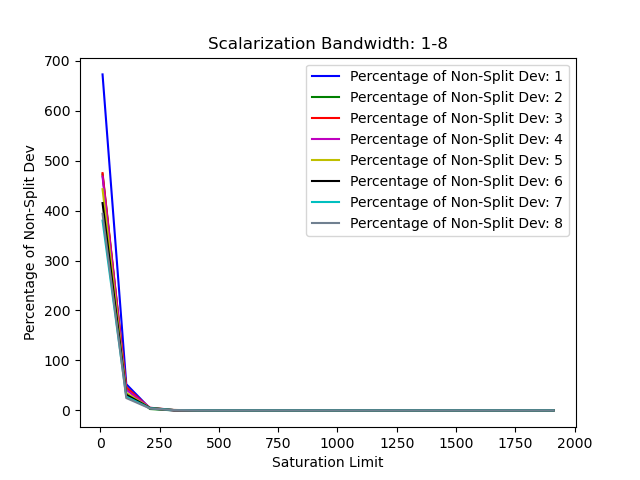
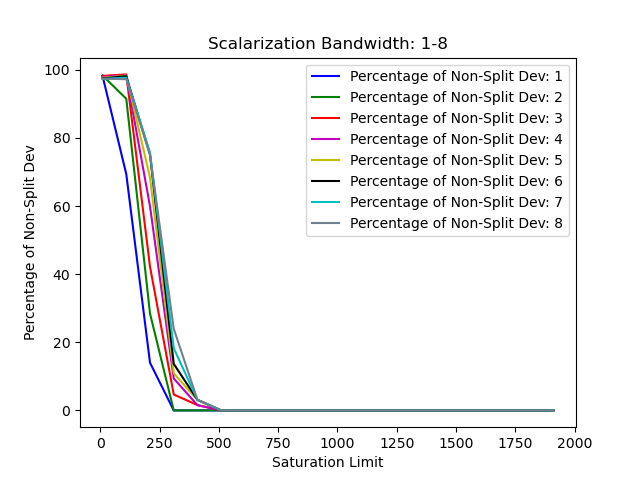
pct_non_split_dev graph now correct --> all parts of heuristic sim fully correct now

diff --git a/heuristic_sim.py b/heuristic_sim.py
@@ -217,7 +217,7 @@ def sat_counters(tmasks, instrs, scalarize_t0, scalarize_pcs, theta=1000, num_th
 								if current_instr_pc in pcs:
 									reconvergence_pc = start_end[1]	# reconvergence pc
 									should_scalarize = True
-									attempts_at_scalarization += 1
+									# attempts_at_scalarization += 1
 									reconverge_pcs[tid] = reconvergence_pc
 									break
 
@@ -239,6 +239,7 @@ def sat_counters(tmasks, instrs, scalarize_t0, scalarize_pcs, theta=1000, num_th
 							sat_counters[tid] = 0
 
 							occupancy += 1
+							attempts_at_scalarization += 1
 
 							if(occupancy > max_occupancy):
 								max_occupancy = occupancy
@@ -252,6 +253,7 @@ def sat_counters(tmasks, instrs, scalarize_t0, scalarize_pcs, theta=1000, num_th
 							
 						elif(sat_counters[tid] >= theta and occupancy < capacity and (scalarize_t0 or (not scalarize_t0 and not(tid == 0)))):
 							failed_pred_scalarization += 1
+							attempts_at_scalarization += 1
 
 
 			## Check if the tmask is a reconvergence tmask for any of the threads
